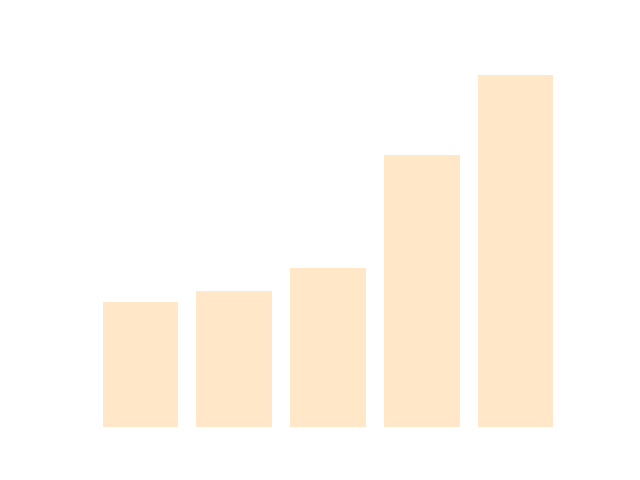
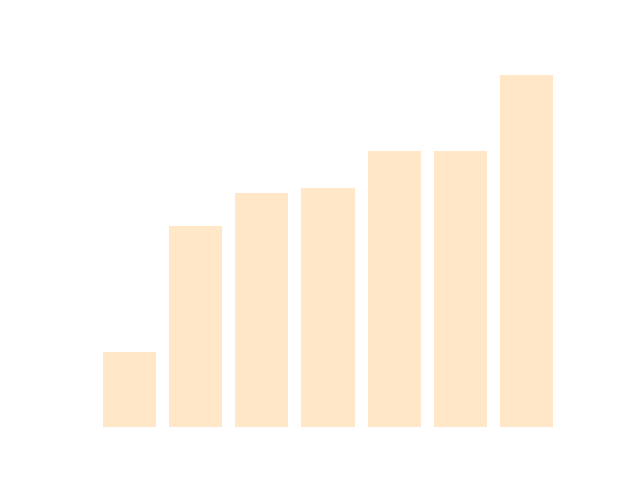
fix showing pic from before

Changed region(s): [[0.1562, 0.1562, 0.7812, 0.9062]]

diff --git a/app.py b/app.py
@@ -85,6 +85,8 @@ class Hello:
 
 
         plt.savefig('static/media/results.png',transparent=True) 
+        with open ('static/media/results.png', 'rb') as results:
+            return (base64.b64encode(results.read()))
 
 
     @staticmethod
@@ -104,9 +106,8 @@ def processjson():
             return jsonify({'post': 'success!'})
     else:
         processedData = Hello.time_for_letter(Hello.typedData)
-        Hello.plotBarGraph(processedData)
-        with open ('static/media/results.png', 'rb') as results:
-            return (base64.b64encode(results.read()))
+        x = Hello.plotBarGraph(processedData)
+        return x
 
 @app.route('/API/sample', methods=['GET'])
 @cross_origin()
